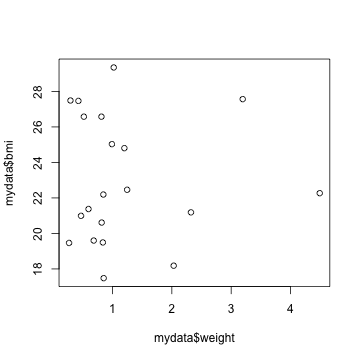
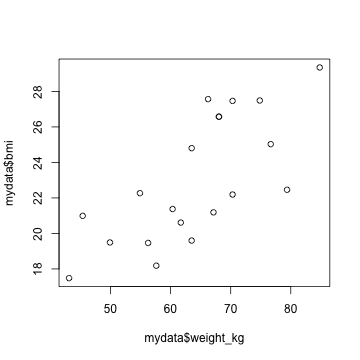
add some help and such

diff --git a/01-getting-started/01_getting_started_slides.html b/01-getting-started/01_getting_started_slides.html
@@ -23,6 +23,19 @@ class: center, middle, inverse, title-slide
 
 
 
+# Pre-course installation
+
+## Install R
+
+- Windows : Download from https://cran.rstudio.com/bin/windows/base/
+- Mac OS X: Download the latest .pkg file (currently R-3.5.2.pkg) from https://cran.rstudio.com/bin/macosx/
+
+## Install RStudio Desktop Open Source License
+
+- Select download file corresponding to your operating system  from https://www.rstudio.com/products/rstudio/download/#download
+
+---
+
 # Questions
 
 - Who has used R?
@@ -105,11 +118,6 @@ from [Modern Dive](https://moderndive.com/2-getting-started.html)
 
 # Rstudio demo
 
-- tour of RStudio
-- use console
-- run some code
-- make an R file and save it
-- add some code
 
 ---
 
@@ -602,10 +610,10 @@ __Vectors__ vs. __data frames__: a data frame is a collection (or array or table
 
 
 
-* A data frame allows different columns to be of different data types (i.e. numeric vs. text), and even allows both numeric and text within a column.
+* A data frame allows different columns to be of different data types (i.e. numeric vs. text), and even allows both numeric and text within a column (stored together as text).
 
-* Vectors and data frames are examples of what are more generally referred to as _objects_ in R. 
-  + There are other types of R objects to sotre data, such as matrices, lists, and tibbles.
+* Vectors and data frames are examples of _objects_ in R. 
+  + There are other types of R objects to store data, such as matrices, lists, and tibbles.
   + These will be discussed in future R workshops.
 
 
@@ -726,7 +734,22 @@ Entire row
 
 &lt;!-- ![](img/01_View_data_screenshot.png) --&gt;
 
-&lt;img src="img/01_View_data_screenshot.png" width="110%" height="110%"&gt;
+&lt;img src="img/01_View_data_screenshot2.png" width="110%" height="110%"&gt;
+
+
+---
+
+# About the data
+
+Data from the CDC's [Youth Risk Behavior Surveillance System (YRBSS) ](https://www.cdc.gov/healthyyouth/data/yrbs/index.htm)
+
+- complex survey data
+- national school-based survey conducted by CDC and state, territorial, tribal, and local surveys conducted by state, territorial, and local education and health agencies and tribal governments
+- monitors six categories of health-related behaviors that contribute to the leading causes of death and disability among youth and adults (including alcohol &amp; drug use, unhealthy &amp; dangerous behaviors, sexuality, physical activity); see [Questionnaires](https://www.cdc.gov/healthyyouth/data/yrbs/questionnaires.htm)
+- this data is a small subset (20 rows) of data in the R package [`yrbss`](https://github.com/hadley/yrbss) which includes YRBSS from 1991-2013
+- we will use the full R data set in a future workshop teaching data cleaning
+
+&lt;img src="img/01_yrbss.png" width="110%" height="110%"&gt;
 
 
 ---
@@ -746,13 +769,13 @@ Entire row
  Mean   :1093150   17 years old         :7               9th :4  
  3rd Qu.:1313188   18 years old or older:1                       
  Max.   :1316123                                                 
-                       race4        bmi            weight      
- All other races          :5   Min.   :17.48   Min.   :0.2678  
- Black or African American:3   1st Qu.:20.36   1st Qu.:0.5759  
- Hispanic/Latino          :6   Median :22.23   Median :0.8416  
- White                    :4   Mean   :23.01   Mean   :1.1956  
- NA's                     :2   3rd Qu.:26.58   3rd Qu.:1.2113  
-                               Max.   :29.35   Max.   :4.4926  
+                       race4        bmi          weight_kg    
+ All other races          :5   Min.   :17.48   Min.   :43.09  
+ Black or African American:3   1st Qu.:20.36   1st Qu.:57.27  
+ Hispanic/Latino          :6   Median :22.23   Median :64.86  
+ White                    :4   Mean   :23.01   Mean   :64.09  
+ NA's                     :2   3rd Qu.:26.58   3rd Qu.:70.31  
+                               Max.   :29.35   Max.   :84.82  
                       text_while_driving_30d smoked_ever bullied_past_12mo
  0 days                          : 5         No  :10     Mode :logical    
  1 or 2 days                     : 2         Yes : 6     FALSE:11         
@@ -799,7 +822,7 @@ Entire row
  [1] "id"                     "age"                   
  [3] "sex"                    "grade"                 
  [5] "race4"                  "bmi"                   
- [7] "weight"                 "text_while_driving_30d"
+ [7] "weight_kg"              "text_while_driving_30d"
  [9] "smoked_ever"            "bullied_past_12mo"     
 ```
 
@@ -825,7 +848,7 @@ Entire row
  $ grade                 : Factor w/ 4 levels "10th","11th",..: 1 4 4 4 1 1 1 3 1 4 ...
  $ race4                 : Factor w/ 4 levels "All other races",..: 4 NA 4 4 2 1 1 1 1 2 ...
  $ bmi                   : num  27.6 29.3 18.2 21.4 19.6 ...
- $ weight                : num  3.195 1.021 2.031 0.595 0.683 ...
+ $ weight_kg             : num  66.2 84.8 57.6 60.3 63.5 ...
  $ text_while_driving_30d: Factor w/ 5 levels "0 days","1 or 2 days",..: NA NA NA NA NA NA NA NA NA NA ...
  $ smoked_ever           : Factor w/ 2 levels "No","Yes": NA 2 2 2 1 1 2 1 NA 1 ...
  $ bullied_past_12mo     : logi  NA NA FALSE FALSE TRUE TRUE ...
@@ -849,13 +872,13 @@ Entire row
 4 923122 15 years old   Male   9th                     White 21.3754
 5 923963 15 years old   Male  10th Black or African American 19.5988
 6 925603 16 years old   Male  10th           All other races 22.1910
-  weight text_while_driving_30d smoked_ever bullied_past_12mo
-1 3.1945                   &lt;NA&gt;        &lt;NA&gt;                NA
-2 1.0206                   &lt;NA&gt;         Yes                NA
-3 2.0312                   &lt;NA&gt;         Yes             FALSE
-4 0.5954                   &lt;NA&gt;         Yes             FALSE
-5 0.6833                   &lt;NA&gt;          No              TRUE
-6 0.8456                   &lt;NA&gt;          No              TRUE
+  weight_kg text_while_driving_30d smoked_ever bullied_past_12mo
+1     66.23                   &lt;NA&gt;        &lt;NA&gt;                NA
+2     84.82                   &lt;NA&gt;         Yes                NA
+3     57.61                   &lt;NA&gt;         Yes             FALSE
+4     60.33                   &lt;NA&gt;         Yes             FALSE
+5     63.50                   &lt;NA&gt;          No              TRUE
+6     70.31                   &lt;NA&gt;          No              TRUE
 ```
 
 ```r
@@ -863,9 +886,9 @@ Entire row
 ```
 
 ```
-      id          age    sex grade race4     bmi weight
-1 335340 17 years old Female  10th White 27.5671 3.1945
-2 638618 16 years old Female   9th  &lt;NA&gt; 29.3495 1.0206
+      id          age    sex grade race4     bmi weight_kg
+1 335340 17 years old Female  10th White 27.5671     66.23
+2 638618 16 years old Female   9th  &lt;NA&gt; 29.3495     84.82
   text_while_driving_30d smoked_ever bullied_past_12mo
 1                   &lt;NA&gt;        &lt;NA&gt;                NA
 2                   &lt;NA&gt;         Yes                NA
@@ -888,13 +911,13 @@ Entire row
 18 1315121          17 years old Female  11th                      &lt;NA&gt;
 19 1315850          17 years old Female  12th           Hispanic/Latino
 20 1316123 18 years old or older Female  12th Black or African American
-       bmi weight           text_while_driving_30d smoked_ever
-15 26.5781 0.5173                           0 days          No
-16 24.8047 1.1997                      3 to 5 days          No
-17 25.0318 0.9901                           0 days          No
-18 22.2687 4.4926 I did not drive the past 30 days         Yes
-19 19.4922 0.8376                           0 days        &lt;NA&gt;
-20 27.4894 0.2913                      All 30 days         Yes
+       bmi weight_kg           text_while_driving_30d smoked_ever
+15 26.5781     68.04                           0 days          No
+16 24.8047     63.50                      3 to 5 days          No
+17 25.0318     76.66                           0 days          No
+18 22.2687     54.89 I did not drive the past 30 days         Yes
+19 19.4922     49.90                           0 days        &lt;NA&gt;
+20 27.4894     74.84                      All 30 days         Yes
    bullied_past_12mo
 15              TRUE
 16             FALSE
@@ -1004,7 +1027,7 @@ With extra features:
 .pull-left[
 
 ```r
-&gt; plot(mydata$weight, mydata$bmi)
+&gt; plot(mydata$weight_kg, mydata$bmi)
 ```
 
 &lt;img src="01_getting_started_slides_files/figure-html/unnamed-chunk-35-1.png" style="display: block; margin: auto;" /&gt;
@@ -1013,8 +1036,8 @@ With extra features:
 .pull-right[
 
 ```r
-&gt; plot(mydata$weight, mydata$bmi, 
-+      xlab = "weight", ylab = "BMI", 
+&gt; plot(mydata$weight_kg, mydata$bmi, 
++      xlab = "weight (kg)", ylab = "BMI", 
 +      main = 
 +        "BMI vs. Weight")
 ```
@@ -1115,16 +1138,14 @@ Since `\(\textrm{BMI} = \frac{kg}{m^2}\)`, we have
 &lt;!-- * UPDATE: need correct units! --&gt;
 
 ```r
-&gt; mydata$weight_kg &lt;- mydata$weight  # UPDATE
-&gt; 
 &gt; mydata$height_m &lt;- sqrt( mydata$weight_kg / mydata$bmi)
 &gt; mydata$height_m
 ```
 
 ```
- [1] 0.3404128 0.1864779 0.3342313 0.1668965 0.1867201 0.1952064 0.1495540
- [8] 0.2206491 0.2355663 0.1749404 0.3310490 0.1172985 0.1991268 0.1244106
-[15] 0.1395113 0.2199223 0.1988811 0.4491604 0.2072946 0.1029408
+ [1] 1.550000 1.699999 1.779999 1.680001 1.799998 1.780000 1.469998
+ [8] 1.570002 1.879998 1.600001 1.779998 1.699999 1.730001 1.600001
+[15] 1.600001 1.600000 1.750001 1.569998 1.599999 1.650001
 ```
 
 ```r
@@ -1132,16 +1153,16 @@ Since `\(\textrm{BMI} = \frac{kg}{m^2}\)`, we have
 ```
 
 ```
-[1] 20 12
+[1] 20 11
 ```
 
 ```
  [1] "id"                     "age"                   
  [3] "sex"                    "grade"                 
  [5] "race4"                  "bmi"                   
- [7] "weight"                 "text_while_driving_30d"
+ [7] "weight_kg"              "text_while_driving_30d"
  [9] "smoked_ever"            "bullied_past_12mo"     
-[11] "weight_kg"              "height_m"              
+[11] "height_m"              
 ```
 
 
@@ -1233,10 +1254,10 @@ The code below uses _column names_ instead of numbers.
 ```
 
 ```
-      id          age  sex grade race4     bmi weight
-3 922382 14 years old Male   9th White 18.1827 2.0312
-  text_while_driving_30d smoked_ever bullied_past_12mo weight_kg  height_m
-3                   &lt;NA&gt;         Yes             FALSE    2.0312 0.3342313
+      id          age  sex grade race4     bmi weight_kg
+3 922382 14 years old Male   9th White 18.1827     57.61
+  text_while_driving_30d smoked_ever bullied_past_12mo height_m
+3                   &lt;NA&gt;         Yes             FALSE 1.779999
 ```
 
 In this case the output is only one row since there is only one 14 year old.
@@ -1248,12 +1269,12 @@ In this case the output is only one row since there is only one 14 year old.
 ```
 
 ```
-      id          age    sex grade           race4     bmi weight
-3 922382 14 years old   Male   9th           White 18.1827 2.0312
-8 935435 17 years old Female  12th All other races 17.4814 0.8511
-  text_while_driving_30d smoked_ever bullied_past_12mo weight_kg  height_m
-3                   &lt;NA&gt;         Yes             FALSE    2.0312 0.3342313
-8                   &lt;NA&gt;          No             FALSE    0.8511 0.2206491
+      id          age    sex grade           race4     bmi weight_kg
+3 922382 14 years old   Male   9th           White 18.1827     57.61
+8 935435 17 years old Female  12th All other races 17.4814     43.09
+  text_while_driving_30d smoked_ever bullied_past_12mo height_m
+3                   &lt;NA&gt;         Yes             FALSE 1.779999
+8                   &lt;NA&gt;          No             FALSE 1.570002
 ```
 
 ---
@@ -1367,7 +1388,21 @@ Also can use the "Packages" tab in the Files/Plots/Packages/Help/Viewer window
 
 ---
 
-# How to get help
+# How to get help (1/2)
+
+Use `?` in front of function name in console. Try this:
+
+![](img/01_help_screenshot.png)
+---
+
+# How to get help (2/2)
+
+- Use `??` (i.e `??dplyr` or `??read_csv`) for searching all documentation in installed packages (including unloaded packages)
+- search [Stack Overflow #r tag](https://stackoverflow.com/questions/tagged/r)
+- google your question + rcran or + r (i.e. "make a boxplot rcran" "make a boxplot r")
+- google the error in quotes (i.e. "Evaluation error: invalid type (closure) for variable '***'")
+- [Rstudio community](https://community.rstudio.com/)
+- [twitter #rstats](https://twitter.com/search?q=%23rstats&amp;src=typd)
 
 ---
 
@@ -1384,7 +1419,7 @@ Interactive lessons
     + [Introduction to the Tidyverse](https://www.datacamp.com/courses/introduction-to-the-tidyverse)
     + [Intermediate R](https://www.datacamp.com/courses/intermediate-r)
 
-Much of this is drawn from materials in online books/lessons:
+Some of this is drawn from materials in online books/lessons:
 
 - [Intro to R/RStudio](http://www-users.york.ac.uk/~er13/17C%20-%202018/pracs/01IntroductionToModuleAndRStudio.html) by Emma Rand
 - [Modern Dive](https://moderndive.com/) - An Introduction to Statistical and Data Sciences via R by Chester Ismay &amp; Albert Kim
